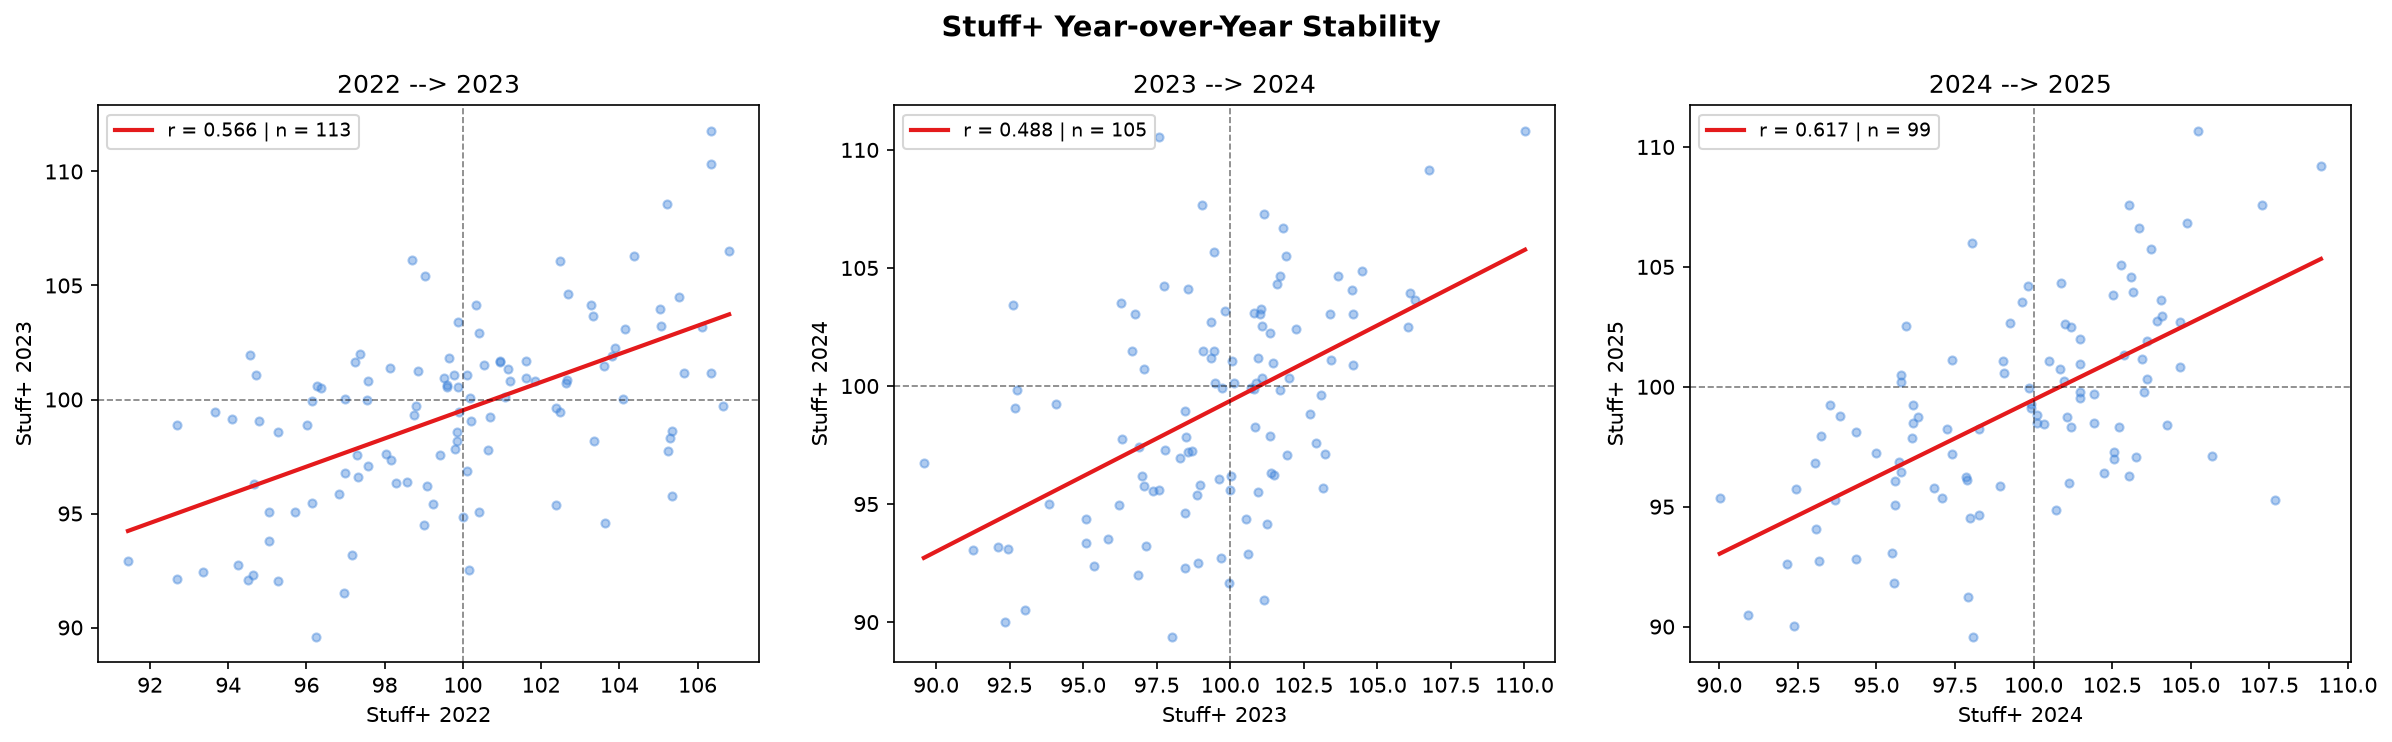
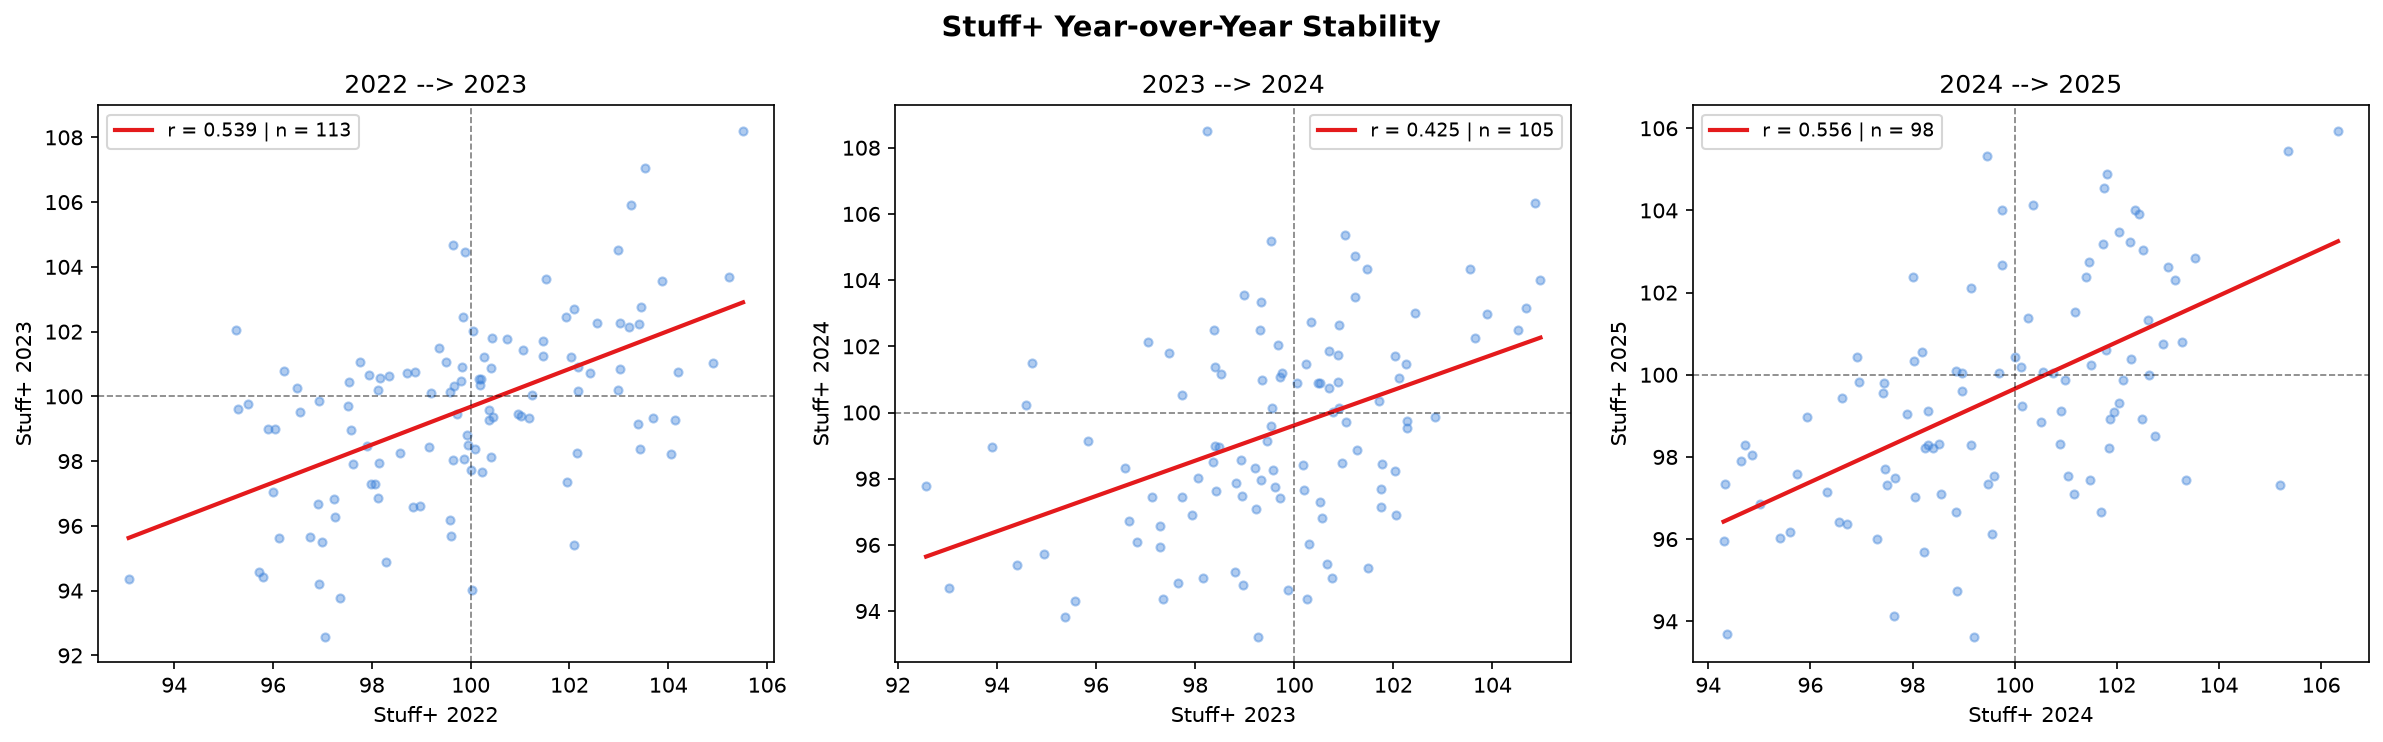
Re-Updated Models for Consistency

diff --git a/rsaa_per_9_validation.py b/rsaa_per_9_validation.py
@@ -356,7 +356,7 @@ for ax, (yr1, yr2) in zip(axes, year_pairs):
 
 plt.tight_layout()
 
-plt.savefig("outputs/validation/stuff+_yoy_stability.png",
+plt.savefig("outputs/validation/stuff_plus_yoy_stability.png",
             dpi = 150, bbox_inches = "tight")
 
 plt.close()
